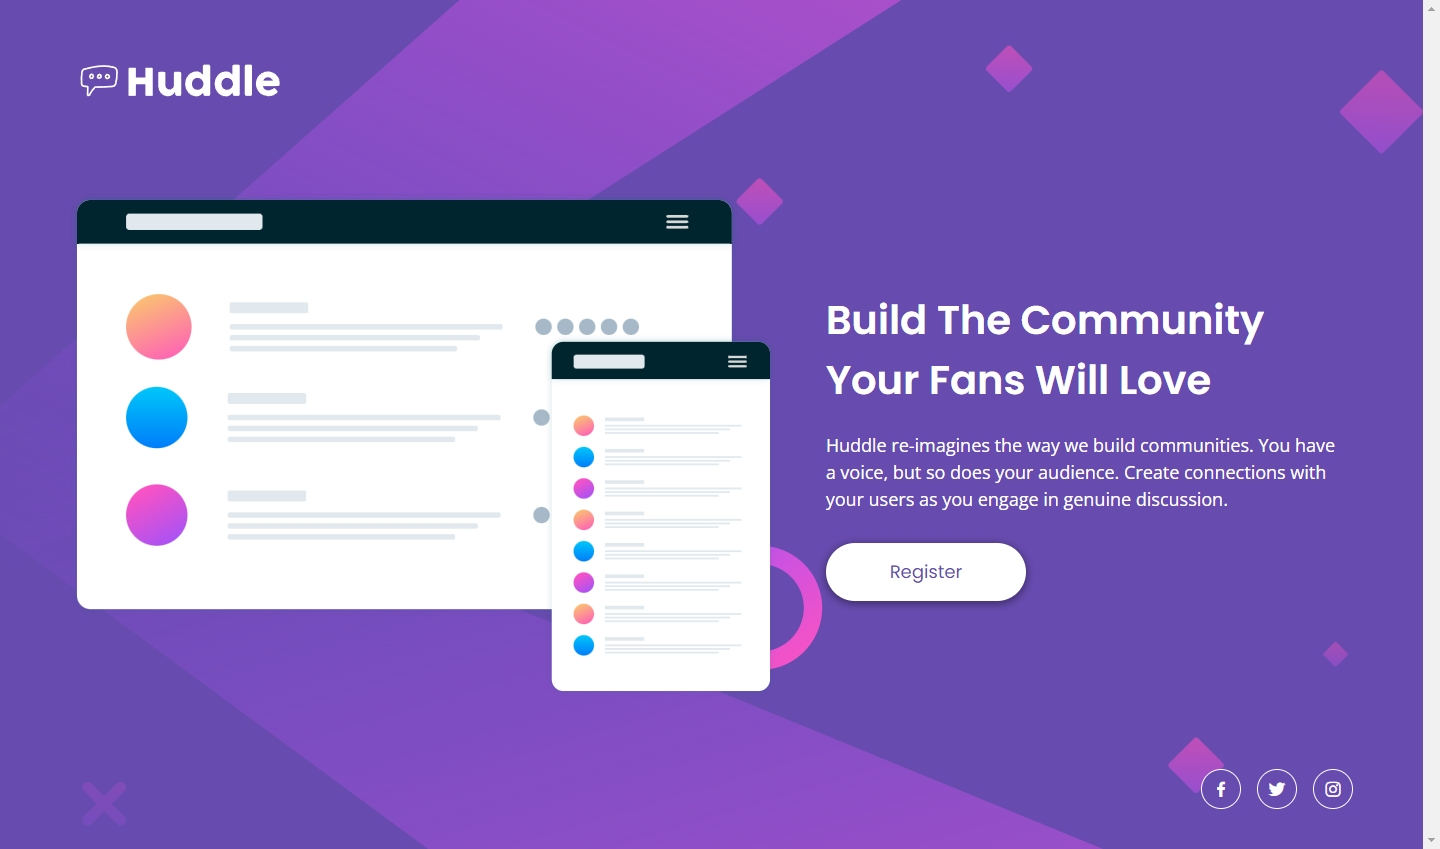
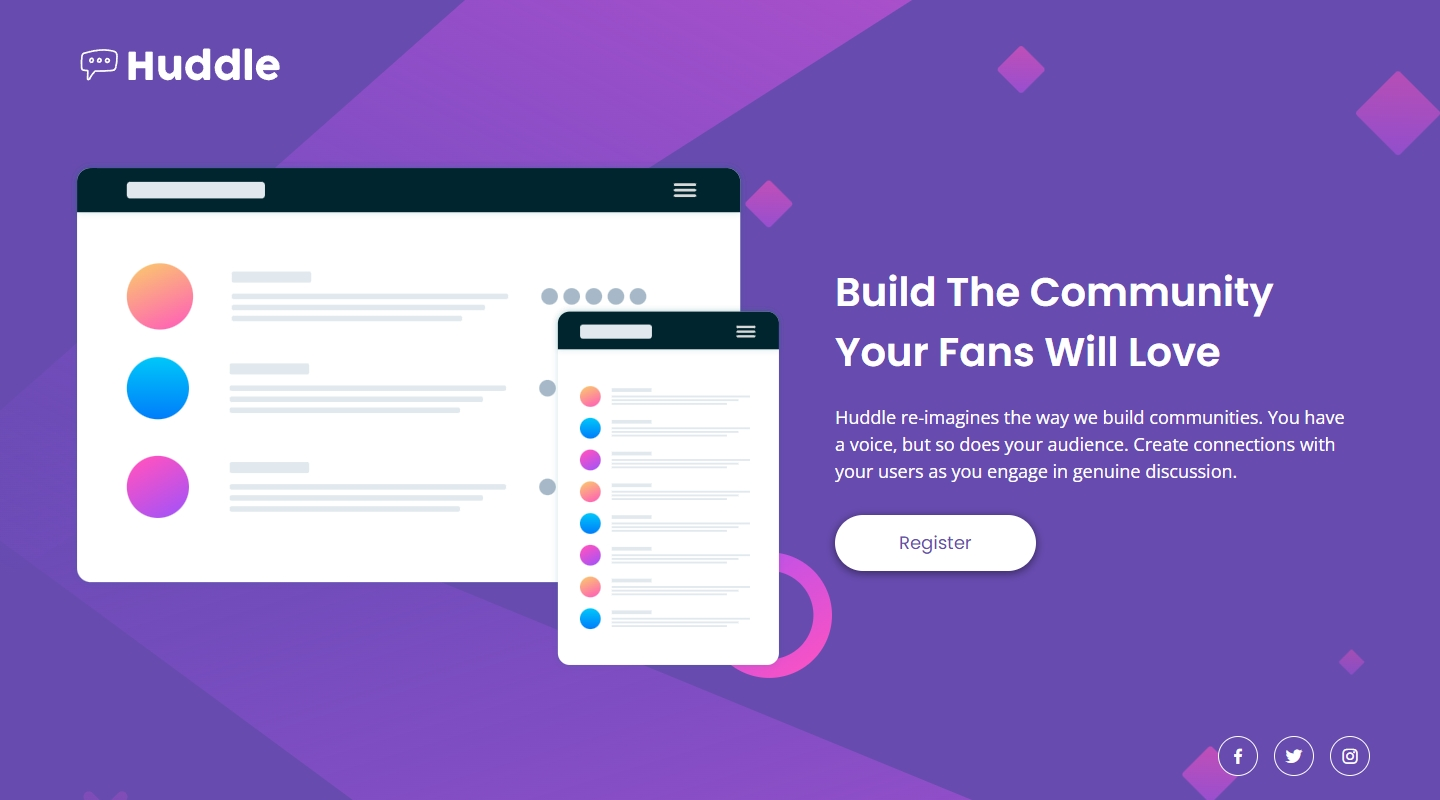
update project

diff --git a/styles.css b/styles.css
@@ -40,21 +40,21 @@ a {
 
 /* --------------- CSS Variables --------------- */
 :root {
+  --clr-primary-100: hsl(0, 0%, 100%);
+  --clr-primary-300: hsl(300, 69%, 71%);
+  --clr-primary-400: hsl(257, 40%, 49%);
+
   --ff-poppins: "Poppins", sans-serif;
   --ff-open-sans: "Open Sans", sans-serif;
-
-  --fs-900: 1.5rem;
-  --fs-600: 1.25rem;
-  --fs-500: 1.0625rem;
-  --fs-400: 1rem;
-  --fs-200: 0.875rem;
 
   --fw-regular: 400;
   --fw-semibold: 600;
 
-  --clr-primary-400: hsl(257, 40%, 49%);
-  --clr-primary-300: hsl(300, 69%, 71%);
-  --clr-primary-100: hsl(0, 0%, 100%);
+  --fs-200: 0.875rem;
+  --fs-400: 1rem;
+  --fs-500: 1.0625rem;
+  --fs-600: 1.25rem;
+  --fs-900: 1.5rem;
 }
 
 /* --------------- Utility Classes--------------- */
@@ -81,17 +81,16 @@ a {
 /* --------------- End of Utility Classes --------------- */
 
 body {
+  min-height: 100vh;
+  gap: 2rem;
+  font-size: var(--fs-400);
+  font-family: var(--ff-poppins);
+  color: var(--clr-primary-100);
   background-color: var(--clr-primary-400);
   background-image: url("./images/bg-mobile.svg");
   background-repeat: no-repeat;
-  background-size: cover;
-
-  min-height: 100vh;
-  color: var(--clr-primary-100);
-  font-family: var(--ff-poppins);
-  font-size: var(--fs-400);
+  background-size: contain;
   padding-inline: 2.3125rem;
-  gap: 2rem;
 }
 
 .header {
@@ -133,14 +132,13 @@ body {
 }
 
 .home__btn {
-  position: relative;
-  background-color: var(--clr-primary-100);
-  color: var(--clr-primary-400);
   font-size: var(--fs-200);
-  padding: 0.71875rem 4.8125rem;
+  color: var(--clr-primary-400);
+  background-color: var(--clr-primary-100);
   border-radius: 100vmax;
-  margin-top: 0.5rem;
   box-shadow: 0 0.125rem 0.5rem 0.0625rem rgba(0, 0, 0, 0.4);
+  padding: 0.71875rem 4.8125rem;
+  margin-top: 0.5rem;
   transition: background-color 0.1s ease-in-out;
 }
 
@@ -151,7 +149,7 @@ body {
 
 .footer {
   width: 100%;
-  padding-block: 2.5rem;
+  padding-block: 1.5rem;
 }
 
 .social-icons {
@@ -195,7 +193,12 @@ body {
 }
 
 /* --------------- Media Queries --------------- */
-/* --------------- 1075 px --------------- */
+@media (min-width: 48rem) {
+  body {
+    background-size: cover;
+  }
+}
+
 @media (min-width: 67.1875rem) {
   :root {
     --fs-900: 2.5rem;
@@ -212,7 +215,7 @@ body {
   }
 
   .header {
-    padding-block: 3rem;
+    padding-block: 2rem;
   }
 
   .header__logo {

diff --git a/index.html b/index.html
@@ -8,6 +8,12 @@
       name="description"
       content="Darkstar's solution for the Huddle Landing Page with a Single Introductory Section challenge on frontendmentor.io"
     />
+
+    <meta property="og:type" content="website" />
+    <meta
+      property="og:url"
+      content="https://huddle-landing-page-with-single-intro-section-darkstarxdd.vercel.app/"
+    />
     <meta
       property="og:title"
       content="Huddle Landing Page with a Single Introductory Section - Frontend Mentor"
@@ -16,8 +22,13 @@
       property="og:description"
       content="Darkstar's solution for the Huddle Landing Page with a Single Introductory Section challenge on frontendmentor.io"
     />
-    <meta property="og:image" content="./images/link_preview_image.jpeg" />
-    <meta property="og:image:alt" content="screenshot of the webpage" />
+    <meta
+      property="og:image"
+      content="https://huddle-landing-page-with-single-intro-section-darkstarxdd.vercel.app/images/screenshot_desktop.jpeg"
+    />
+    <meta property="og:image:type" content="image/jpeg" />
+    <meta property="og:image:width" content="1440" />
+    <meta property="og:image:height" content="800" />
 
     <link
       rel="icon"

diff --git a/README.md b/README.md
@@ -1,6 +1,6 @@
 ## Frontend Mentor Challenge 10 - Huddle Landing Page with a Single Introductory Section
 
-This is my solution to the ["Huddle Landing Page with a Single Introductory Section" challenge on Frontend Mentor](https://www.frontendmentor.io/challenges/huddle-landing-page-with-a-single-introductory-section-B_2Wvxgi0).
+This is my solution to the [Huddle Landing Page with a Single Introductory Section](https://www.frontendmentor.io/challenges/huddle-landing-page-with-a-single-introductory-section-B_2Wvxgi0) challenge on [Frontend Mentor](https://www.frontendmentor.io/).
 
 ### Screenshots of My Solution (Desktop & Mobile) 🔍
 
@@ -11,7 +11,7 @@ This is my solution to the ["Huddle Landing Page with a Single Introductory Sect
 
 ### Links 🔗
 
-- Live Site URL:
+- Live Site URL: https://huddle-landing-page-with-single-intro-section-darkstarxdd.vercel.app/
 - Solution URL:
 
 #
@@ -20,7 +20,7 @@ This is my solution to the ["Huddle Landing Page with a Single Introductory Sect
 
 - Mobile Responsive 📱
 - Self-hosted Fonts 🔡
-- Button Hover Effects
+- Glowing Hover Effect for the Social Media Icons 🎇
 
 #
 
@@ -34,19 +34,15 @@ This is my solution to the ["Huddle Landing Page with a Single Introductory Sect
 
 ### Tools I Used 🔧
 
-- [PerfectPixel by WellDoneCode](https://chromewebstore.google.com/detail/perfectpixel-by-welldonec/dkaagdgjmgdmbnecmcefdhjekcoceebi) - A chrome extension that enables you to overlay an image over your HTML webpage. This makes it easy to compare your HTML result with the reference image and adjust fine details.
+- [Prettier VS Code Extension](https://marketplace.visualstudio.com/items?itemName=esbenp.prettier-vscode) - Code formatter.
 
 - [Responsively.app](https://responsively.app/) - A free and open source tool that allows you to test your webpage on different screen sizes, take screenshots and much more.
 
-- [Web ToolBox - Image Comparison Slider](https://web-toolbox.dev/en/tools/image-compare-slider) - Allows you to compare two images using a slider.
+- [Color Contrast Checker by coolors.co](https://coolors.co/contrast-checker/112a46-acc8e5) - Check color contrast ratios and if needed, update the colors to match the WCAG guidelines.
 
-- [Prettier VS Code Extension](https://marketplace.visualstudio.com/items?itemName=esbenp.prettier-vscode) - Code formatter.
+- [google webfonts helper by Mario Ranftl](https://gwfh.mranftl.com/fonts) - Converts TTF fonts to WOFF and WOFF2 formats.
 
-- [pwa-asset-generator](https://github.com/elegantapp/pwa-asset-generator) - Generates favicons, icon and splash screen images. Updates manifest.json and index.html files with the generated images according to Web App Manifest specs and Apple Human Interface guidelines.
-
-- [webfont-generator](https://www.fontsquirrel.com/tools/webfont-generator) - Convert your TTF fonts to WOFF and WOFF2 formats.
-
-- [google webfonts helper](https://gwfh.mranftl.com/fonts) - Another tool to convert your TTF fonts to WOFF and WOFF2 formats, but much easier to use than the above.
+- [PerfectPixel by WellDoneCode](https://chromewebstore.google.com/detail/perfectpixel-by-welldonec/dkaagdgjmgdmbnecmcefdhjekcoceebi) - A chrome extension that enables you to overlay an image, over a webpage. This makes it easier to compare your solution result with the reference image and adjust fine details if needed.
 
 #
 
